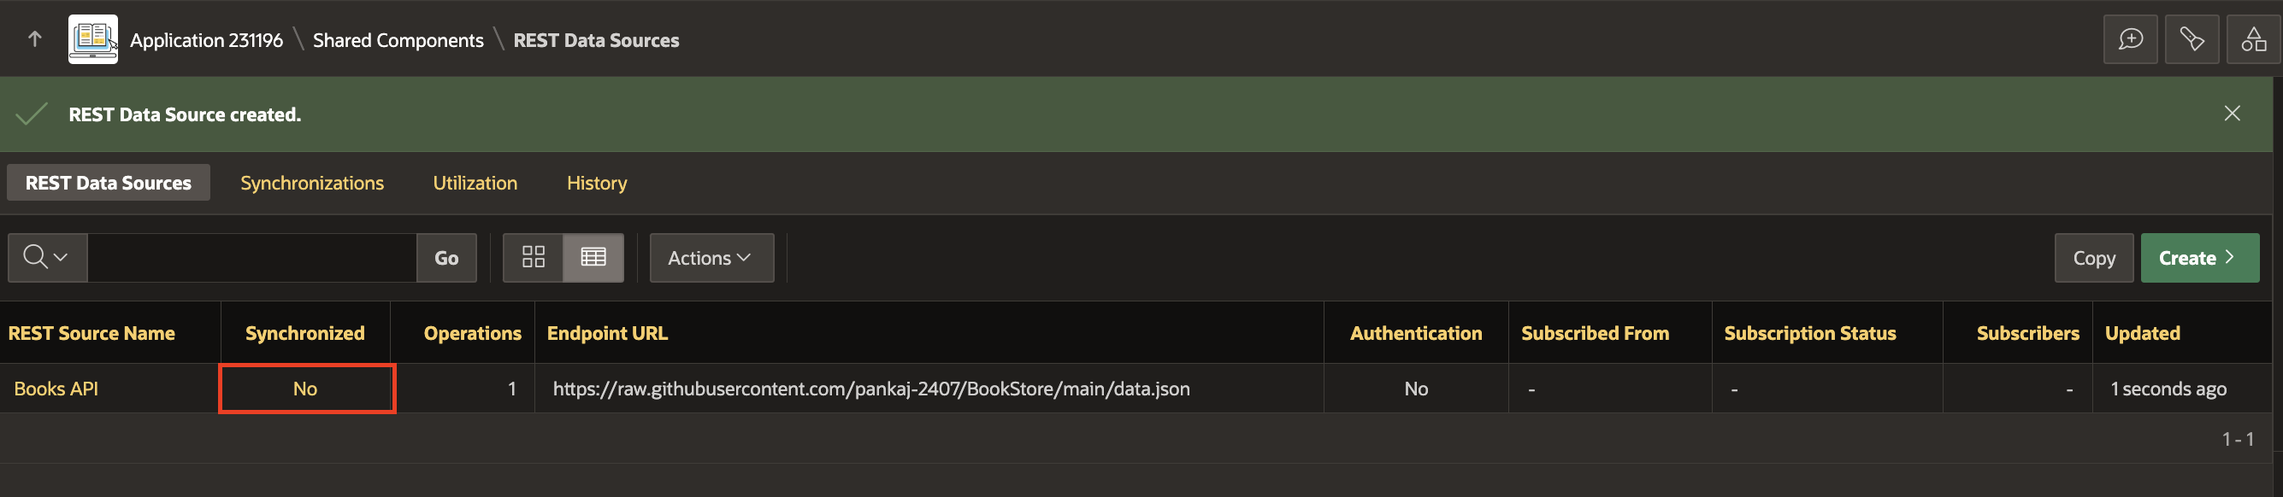
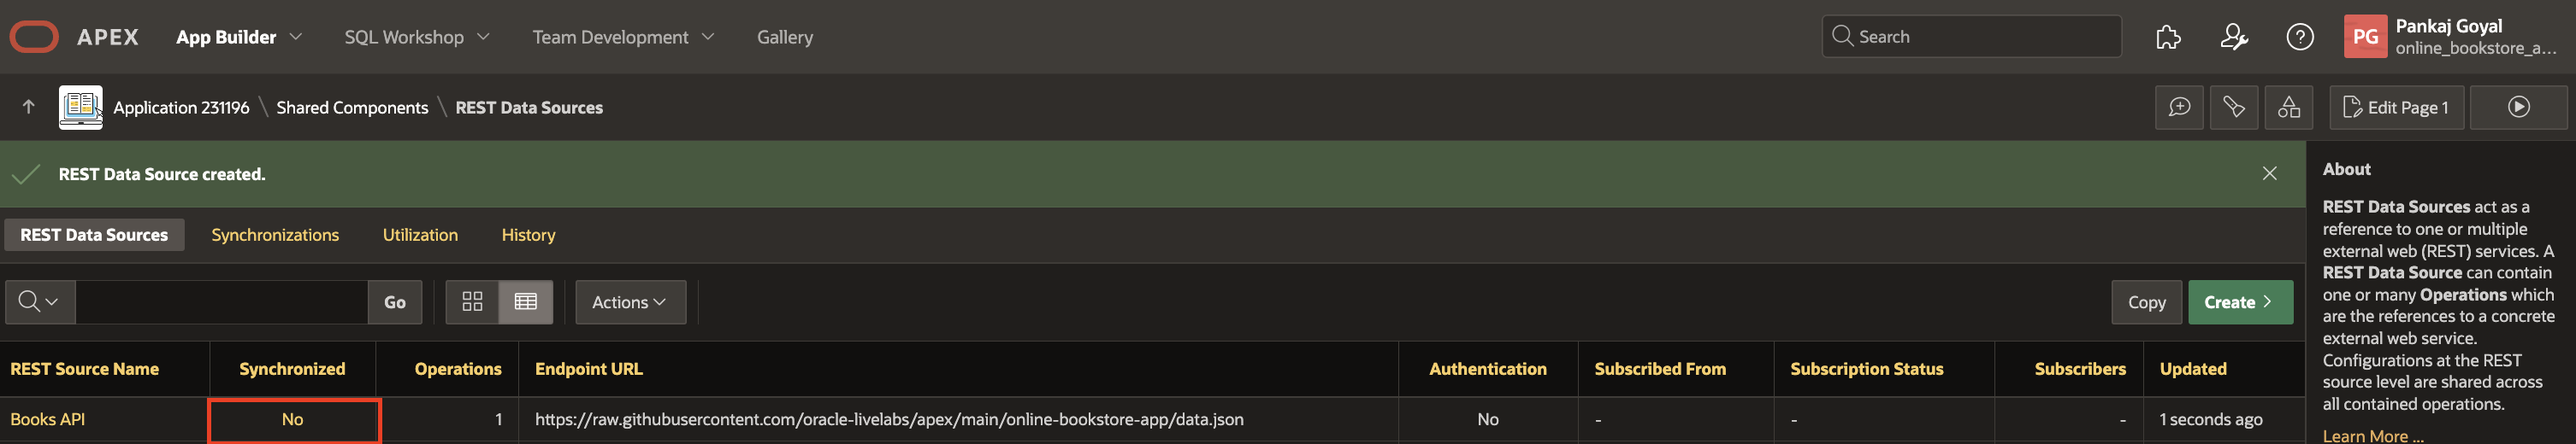
OBS 24.2 Feedback Fix

diff --git a/online-bookstore-app/2-rest-data/2-rest-data-source.md b/online-bookstore-app/2-rest-data/2-rest-data-source.md
@@ -56,7 +56,7 @@ In this lab, you will:
 
         ```
         <copy>
-        https://raw.githubusercontent.com/pankaj-2407/BookStore/main/data.json
+        https://raw.githubusercontent.com/oracle-livelabs/apex/main/online-bookstore-app/data.json
         </copy>
         ```
 
